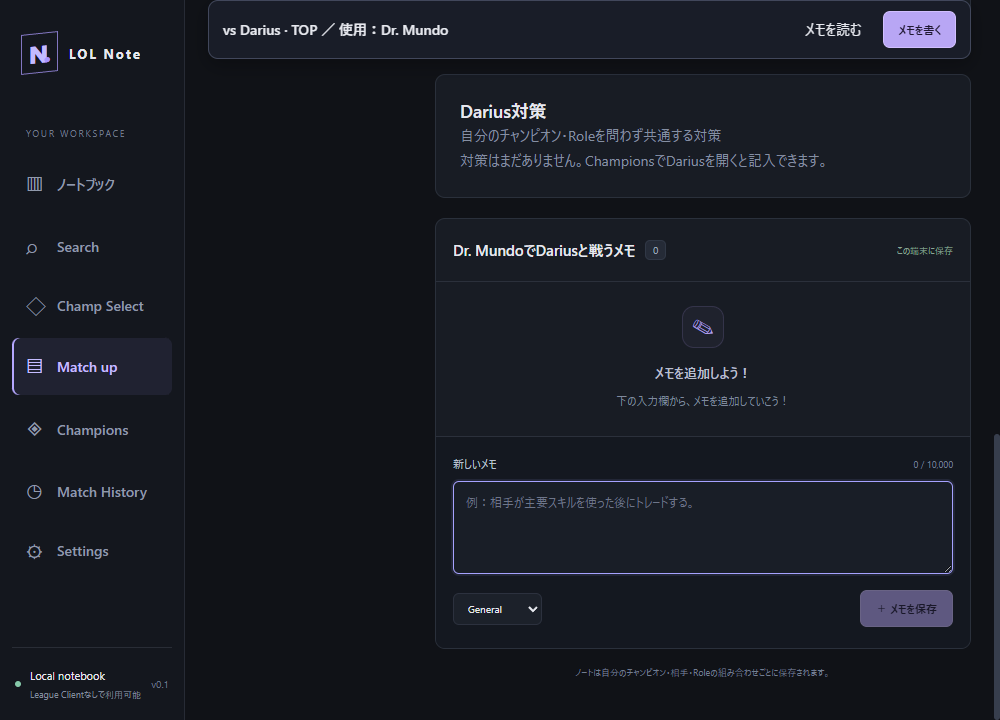
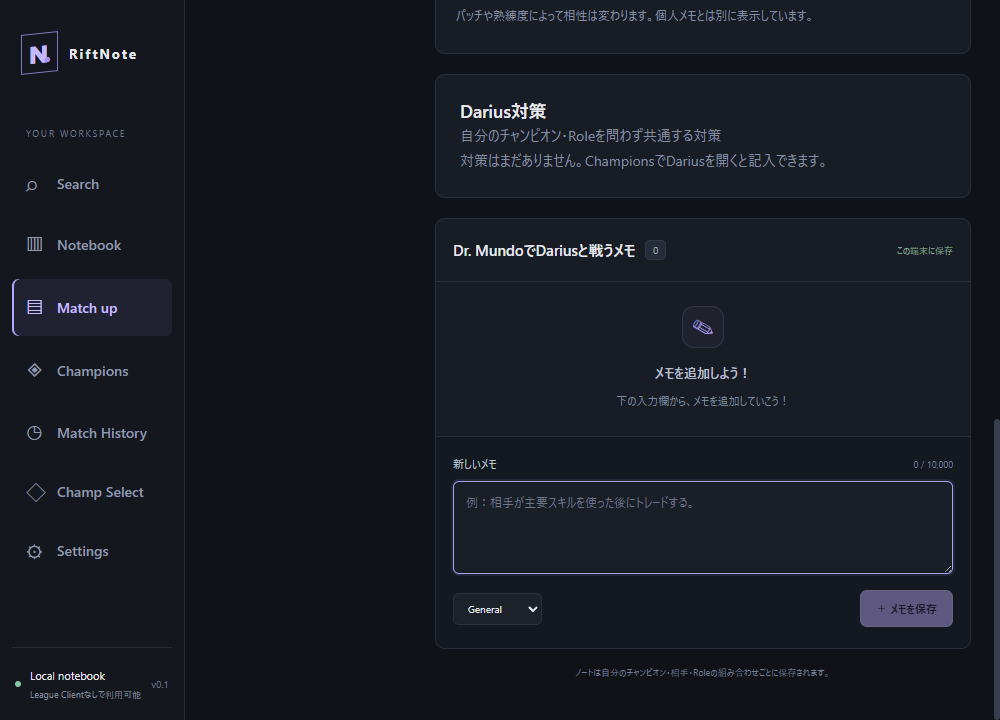
fix: refresh personal comfort picks on focus and remove quick note bar

diff --git a/tests/usability.e2e.ts b/tests/usability.e2e.ts
@@ -48,14 +48,12 @@ test('search, return navigation and counter shortcuts preserve the writing flow'
     await page.getByRole('button', { name: 'Dariusの詳細を開く', exact: true }).click()
     await expect(page.getByRole('region', { name: '初期カウンターメモ' })).toHaveCount(0)
     await page.getByRole('button', { name: /Match up/ }).click()
-    await page.getByRole('button', { name: 'メモを書く', exact: true }).click()
     const editor = page.getByLabel('新しいメモ', { exact: true })
-    await expect(editor).toBeFocused()
+    await editor.click()
     await editor.fill('途中のメモを保持')
     await page.getByRole('button', { name: 'Dr. Mundoで対面メモを開く' }).click()
     await expect(page.getByRole('alertdialog')).toBeVisible()
     await page.getByRole('button', { name: '編集を続ける', exact: true }).click()
-    await page.getByRole('button', { name: '書きかけのメモへ' }).click()
     await expect(editor).toHaveValue('途中のメモを保持')
     await editor.press('Control+Enter')
     await expect(page.locator('.note-body')).toHaveText('途中のメモを保持')
@@ -68,8 +66,7 @@ test('search, return navigation and counter shortcuts preserve the writing flow'
     )
     await expect(page.getByLabel('ROLE', { exact: true })).toHaveValue('TOP')
     await page.setViewportSize({ width: 1000, height: 720 })
-    await page.getByRole('button', { name: 'メモを書く', exact: true }).click()
-    await expect(editor).toBeFocused()
+    await editor.click()
     expect(
       await page.evaluate(() => document.documentElement.scrollWidth <= window.innerWidth),
     ).toBe(true)

diff --git a/src/renderer/src/App.tsx b/src/renderer/src/App.tsx
@@ -250,11 +250,6 @@ export default function App() {
     window.scrollTo(0, page === 'champions' && !championDetailOpen ? libraryScroll.current : 0)
   }, [page, championDetailOpen, championId])
 
-  function focusEditor() {
-    editor.current?.scrollIntoView({ block: 'center' })
-    editor.current?.focus({ preventScroll: true })
-  }
-
   async function initialize() {
     try {
       setError('')
@@ -717,27 +712,6 @@ export default function App() {
           </span>
         </header>
         <main>
-          {(page === 'notebook' || (page === 'champions' && championDetailOpen)) && (
-            <div className="quick-note-bar">
-              <span>
-                {page === 'champions'
-                  ? selectedChampion?.name
-                  : `vs ${enemy?.name ?? ''} · ${key.role} ／ 使用：${mine?.name ?? ''}`}
-              </span>
-              <div>
-                <button
-                  onClick={() =>
-                    document.getElementById('personal-notes')?.scrollIntoView({ block: 'start' })
-                  }
-                >
-                  メモを読む
-                </button>
-                <button className="primary" disabled={!ready || busy} onClick={focusEditor}>
-                  {noteDirty ? '書きかけのメモへ' : 'メモを書く'}
-                </button>
-              </div>
-            </div>
-          )}
           <div className={`lcu-banner ${lcu.status}`} role="status">
             <span>{lcu.message}</span>
             {lcu.status === 'champ-select' && page !== 'select' && (

diff --git a/src/renderer/src/MyPicks.tsx b/src/renderer/src/MyPicks.tsx
@@ -22,24 +22,31 @@ export default function MyPicks({
     [error, setError] = useState('')
   useEffect(() => {
     let cancelled = false
-    setLoading(true)
-    setError('')
-    window.notebook
-      .listMyPicks({ enemyChampionId, role })
-      .then((r) => {
-        if (!cancelled) {
-          if (r.ok) setPicks(r.data)
-          else setError(r.error)
-        }
-      })
-      .catch(() => {
-        if (!cancelled) setError('Comfort Picksを読み込めません。')
-      })
-      .finally(() => {
-        if (!cancelled) setLoading(false)
-      })
+    let request = 0
+    const load = () => {
+      const current = ++request
+      setLoading(true)
+      setError('')
+      window.notebook
+        .listMyPicks({ enemyChampionId, role })
+        .then((r) => {
+          if (!cancelled && current === request) {
+            if (r.ok) setPicks(r.data)
+            else setError(r.error)
+          }
+        })
+        .catch(() => {
+          if (!cancelled && current === request) setError('Comfort Picksを読み込めません。')
+        })
+        .finally(() => {
+          if (!cancelled && current === request) setLoading(false)
+        })
+    }
+    load()
+    window.addEventListener('focus', load)
     return () => {
       cancelled = true
+      window.removeEventListener('focus', load)
     }
   }, [enemyChampionId, role, refreshToken])
   async function save(operation: () => Promise<Result<MyPick[]>>) {

diff --git a/tests/matchup-pool.e2e.ts b/tests/matchup-pool.e2e.ts
@@ -64,3 +64,27 @@ test('matchup pool replaces statistics and selects own picks by lane without los
     await app.close()
   }
 })
+
+test('Comfort Picks refreshes externally added personal picks when window regains focus', async () => {
+  mkdirSync('.test-data', { recursive: true })
+  const folder = mkdtempSync(resolve('.test-data', 'comfort-refresh-'))
+  const repo = new NotebookRepository(join(folder, 'notebook.sqlite'), catalog.champions)
+  const env = Object.fromEntries(
+    Object.entries(process.env).filter((e): e is [string, string] => e[1] !== undefined),
+  )
+  delete env.ELECTRON_RUN_AS_NODE
+  env.NOTEBOOK_TEST_DATA_DIR = folder
+  const app = await electron.launch({ args: [resolve('.')], env })
+  try {
+    const page = await app.firstWindow()
+    const picks = page.getByRole('region', { name: 'Comfort Picks', exact: true })
+    await expect(picks).toContainText('得意なピックを追加しましょう')
+    repo.saveMyPick({ myChampionId: 2, enemyChampionId: 122, role: 'TOP' })
+    await page.evaluate(() => window.dispatchEvent(new Event('focus')))
+    await expect(picks).toContainText('Olaf')
+    await expect(page.locator('.quick-note-bar')).toHaveCount(0)
+  } finally {
+    await app.close()
+    repo.close()
+  }
+})

diff --git a/src/renderer/src/styles.css b/src/renderer/src/styles.css
@@ -1732,32 +1732,6 @@ h1 {
   font-size: 12px;
 }
 
-.quick-note-bar {
-  position: sticky;
-  top: 0;
-  z-index: 12;
-  display: flex;
-  align-items: center;
-  justify-content: space-between;
-  gap: 16px;
-  padding: 10px 14px;
-  margin-bottom: 20px;
-  background: #191d28;
-  border: 1px solid #41475b;
-  border-radius: 10px;
-  box-shadow: 0 6px 18px #0004;
-}
-.quick-note-bar > span {
-  font-weight: 600;
-}
-.quick-note-bar > div {
-  display: flex;
-  gap: 8px;
-  flex-shrink: 0;
-}
-.quick-note-bar button {
-  padding: 9px 14px;
-}
 #personal-notes,
 .note-editor {
   scroll-margin-top: 82px;
